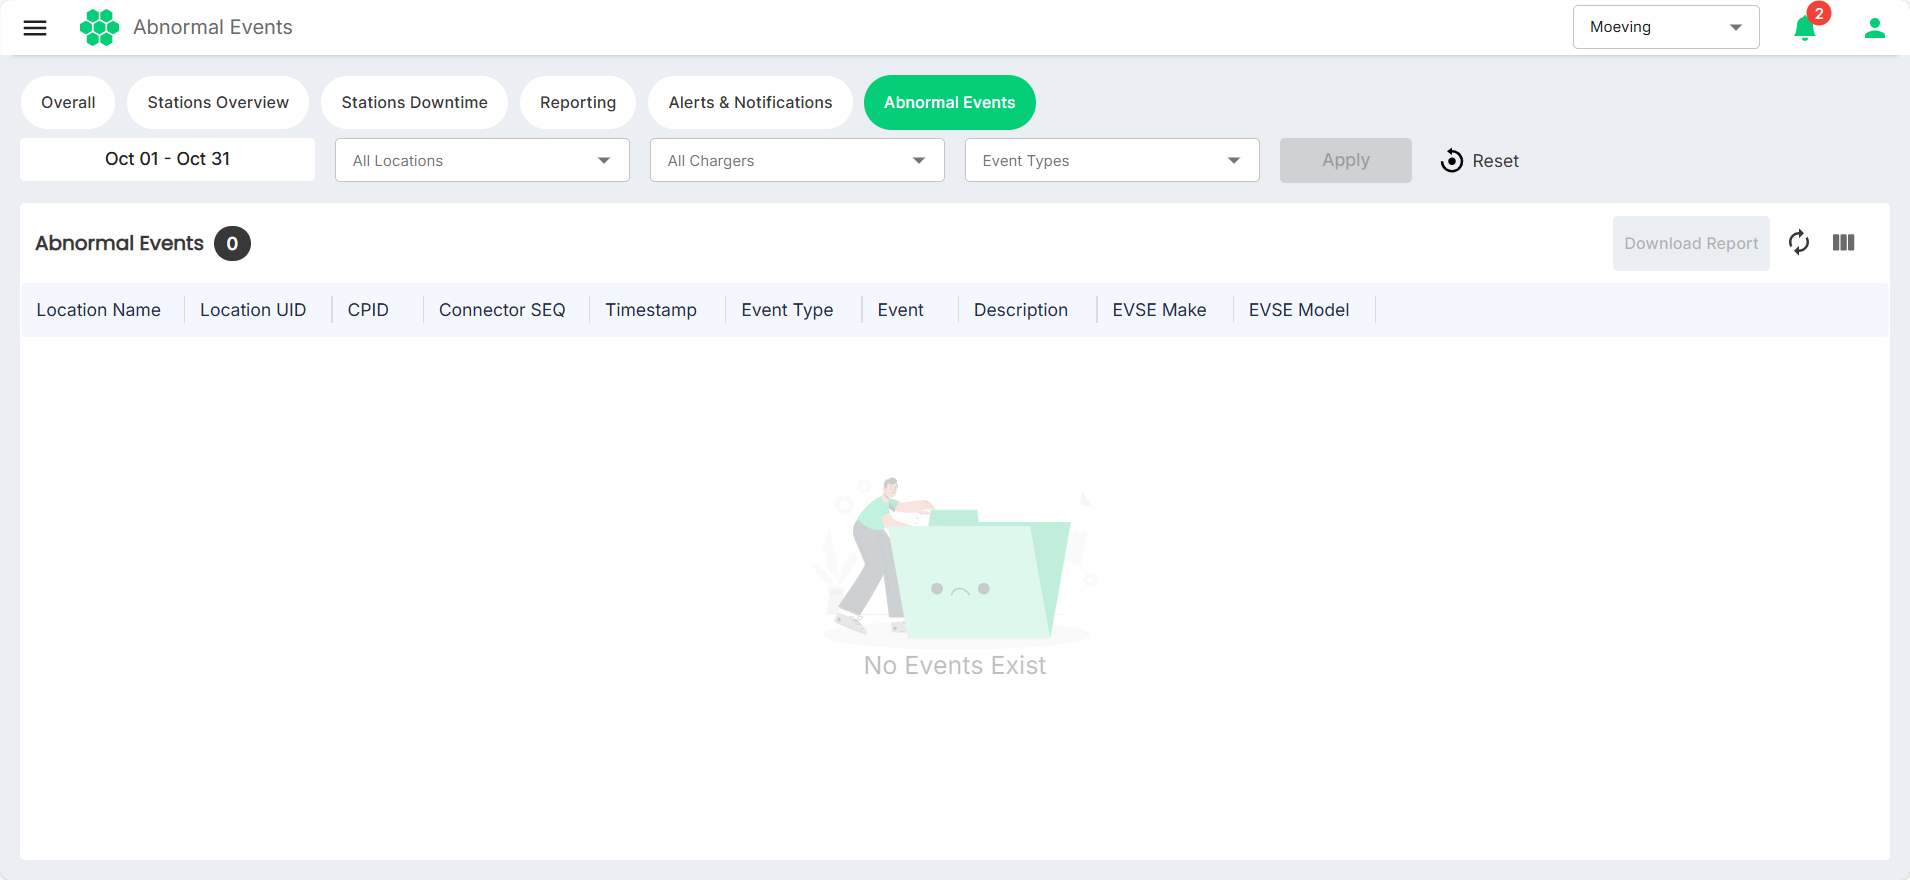
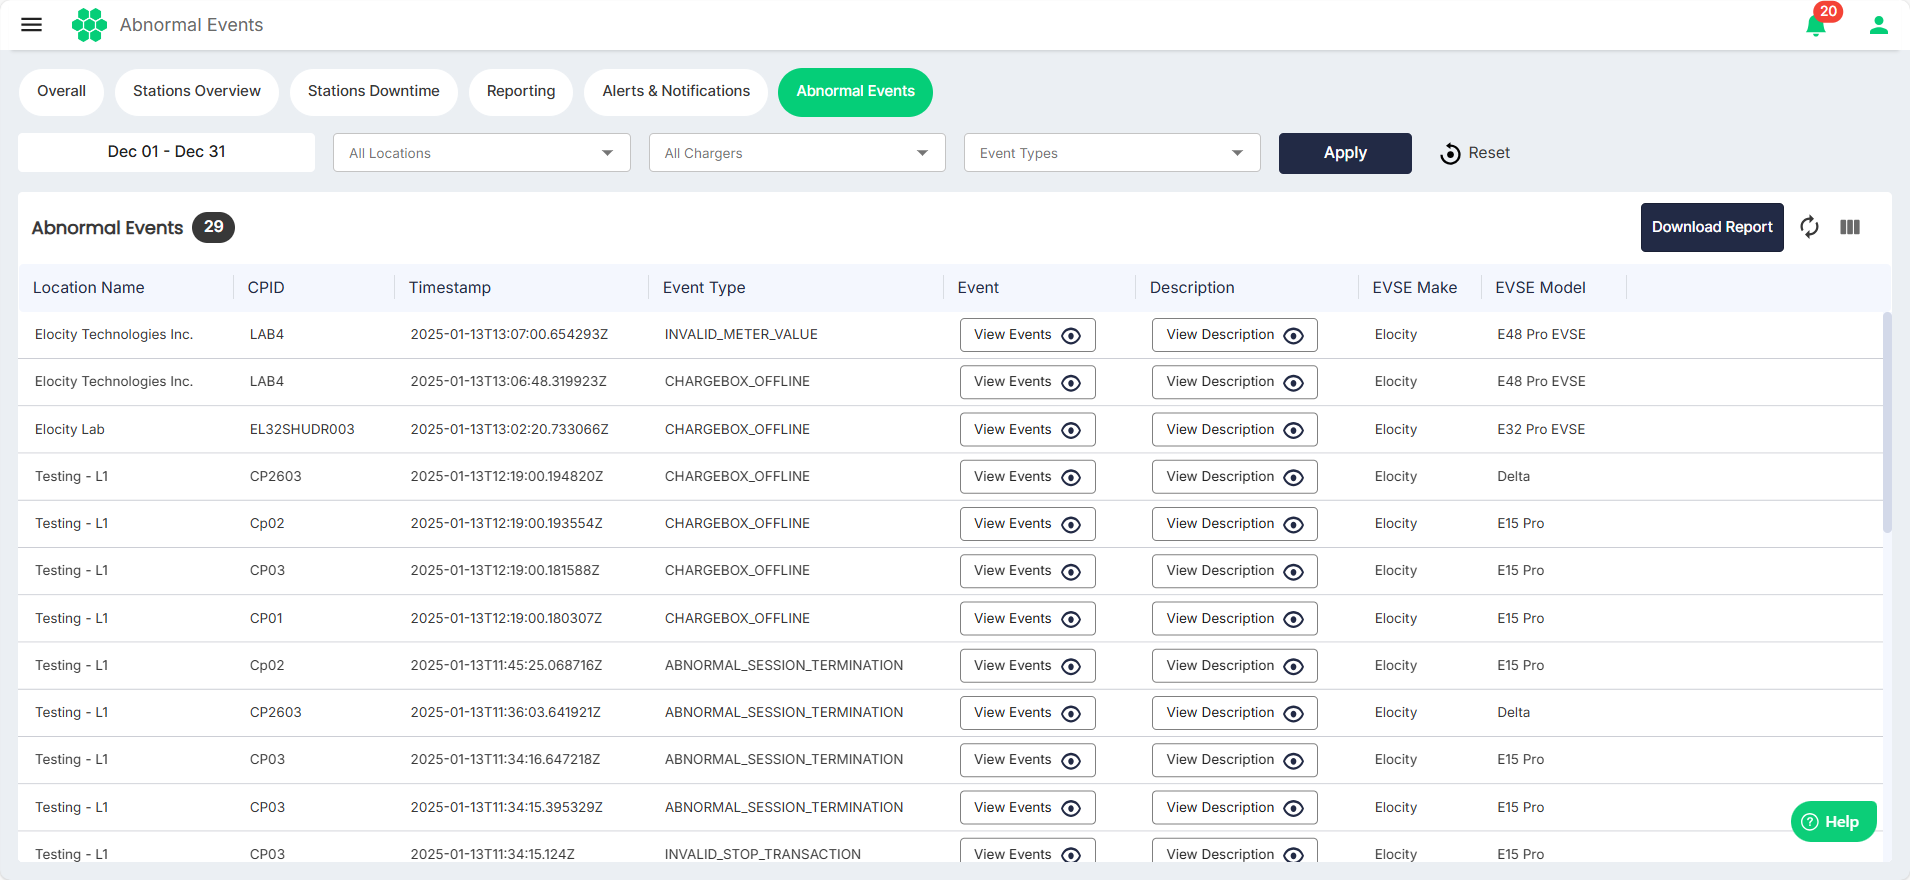
Updates

diff --git a/docs/AdminGuide/Dashboard/AlertsnNotifications.md b/docs/AdminGuide/Dashboard/AlertsnNotifications.md
@@ -2,5 +2,6 @@
 sidebar_position: 4
 ---
 # Alerts and Notifications
-Coming soon...
+The **Alerts and Notifications** section on Dashboard keeps you informed about important updates and system activities in real time. This feature ensures that critical information, such as device alerts, maintenance notifications, or system status changes, is promptly delivered to users, helping them stay proactive and in control. With clear categorization and intuitive design, this section enables efficient monitoring and swift action, supporting seamless management of electric vehicle charging operations.
+Navigate to **Dashboard** > **Alerts & Notifications**. The following screen appears that shows the Alerts and Notifications under their respective tabs.
 ![Alerts and Notifications](img/AlertsandNotifications.png)

diff --git a/docs/AdminGuide/Dashboard/AbnormalEvents.md b/docs/AdminGuide/Dashboard/AbnormalEvents.md
@@ -3,5 +3,6 @@ sidebar_position: 5
 ---
 # Abnormal Events
 
-Coming soon...
+The **Abnormal Events** section of the Dashboard provides you with a comprehensive view of unexpected or irregular system activities that require attention. This feature identifies and highlights anomalies, such as unexpected device behavior, system errors, or unusual usage patterns, empowering users to address potential issues promptly. With detailed insights and actionable data, this section helps maintain the reliability and efficiency of electric vehicle charging operations while minimizing downtime.
+Navigate to **Dashboard** > **Abnormal Events**. The following screen appears:
 ![Abnormal Events](img/AbnormalEvents.png)
